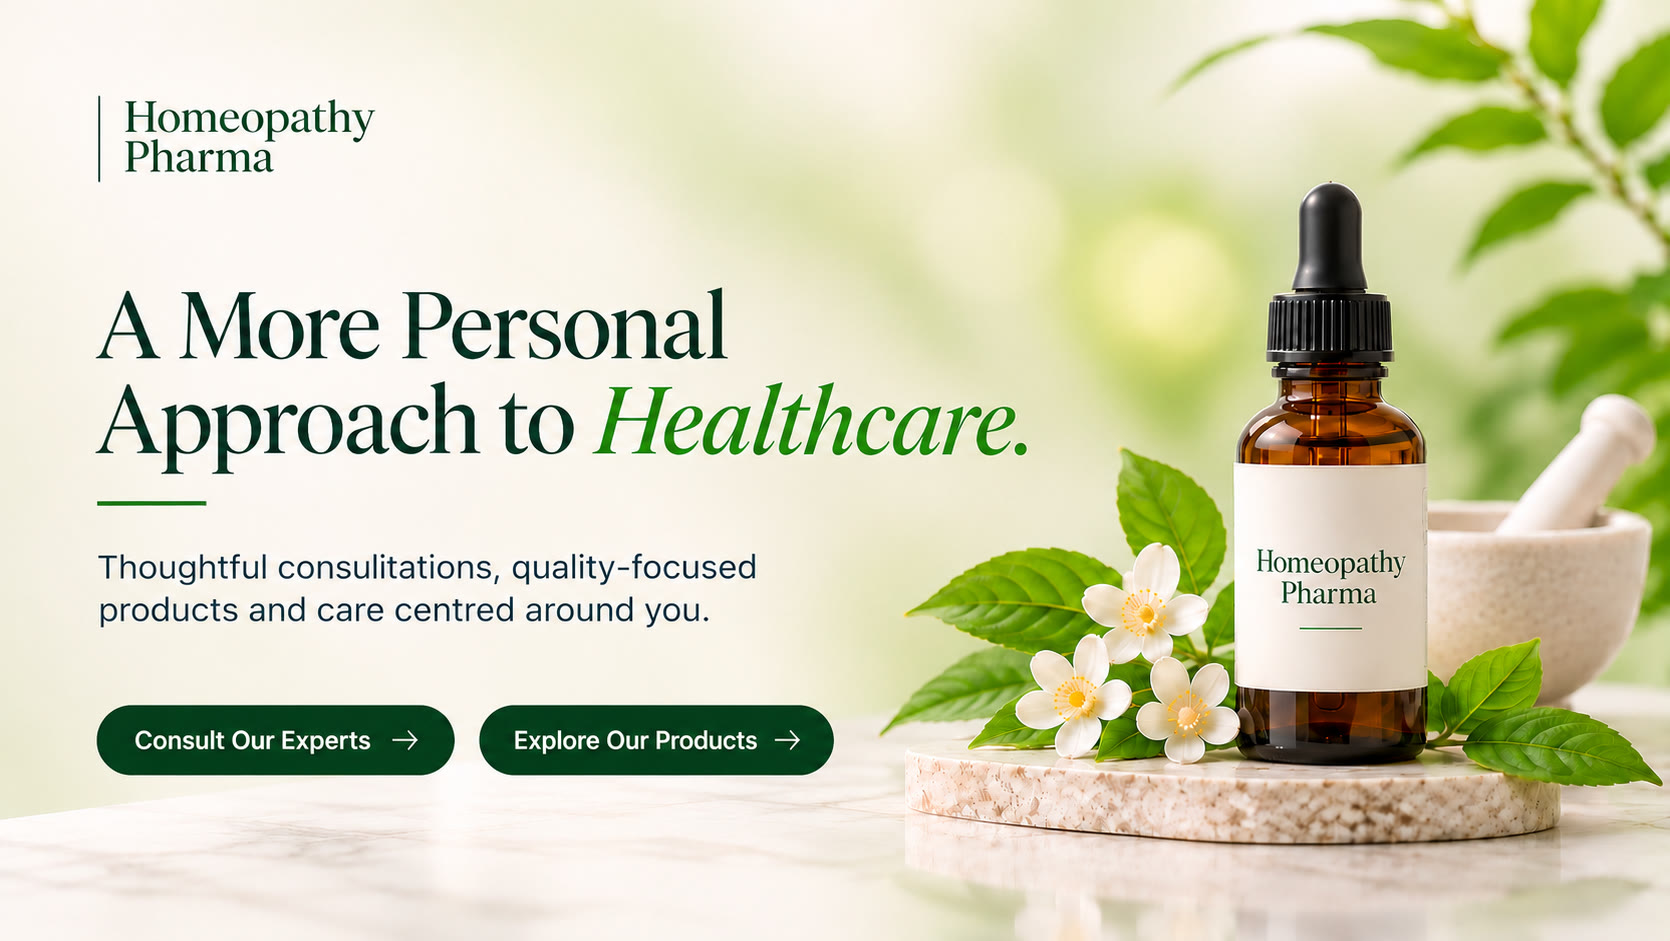
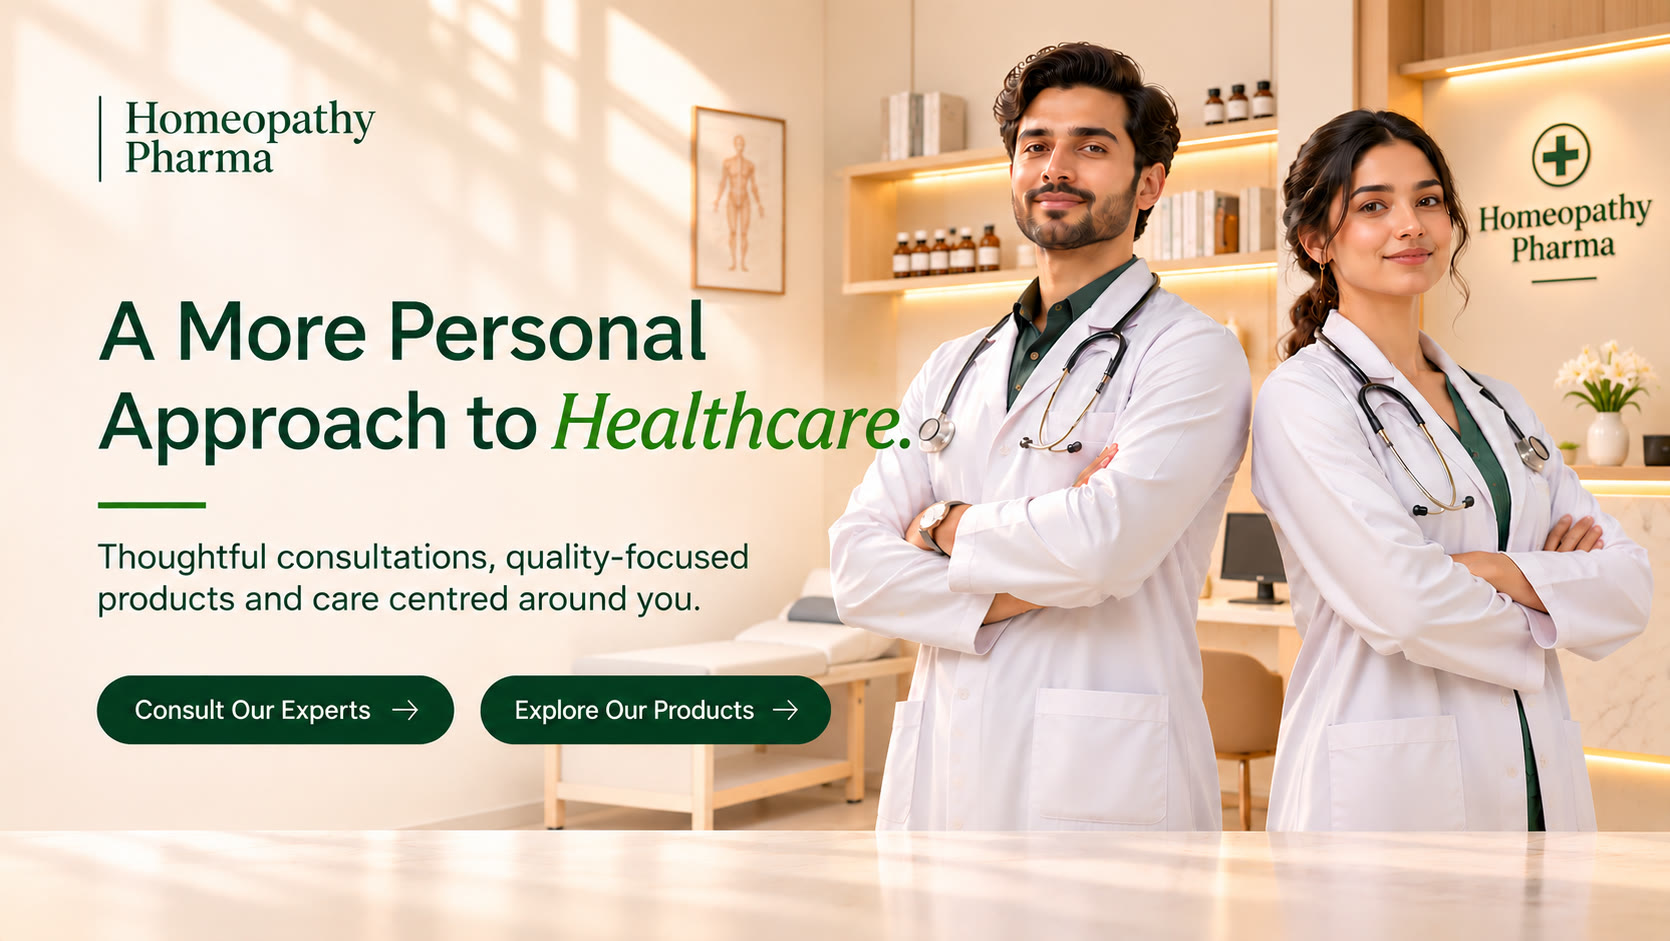
Update homepage hero to clinic doctors artwork
Replace the bottle banner with the new doctors consultation-room
hero image under a fresh CDN-safe filename and cache-bust query.

diff --git a/homeopathypharma/resources/views/home/index.blade.php b/homeopathypharma/resources/views/home/index.blade.php
@@ -14,7 +14,7 @@
     <section class="hp-hero-banner hp-hero-banner--art" aria-label="Homeopathy Pharma">
         <img
             class="hp-hero-banner__art"
-            src="{{ asset('images/home/hero-personal-approach.jpg') }}?v=20261104-personal"
+            src="{{ asset('images/home/hero-personal-doctors.jpg') }}?v=20261104-doctors"
             alt="Homeopathy Pharma — A More Personal Approach to Healthcare. Thoughtful consultations, quality-focused products and care centred around you."
             width="1670"
             height="941"
